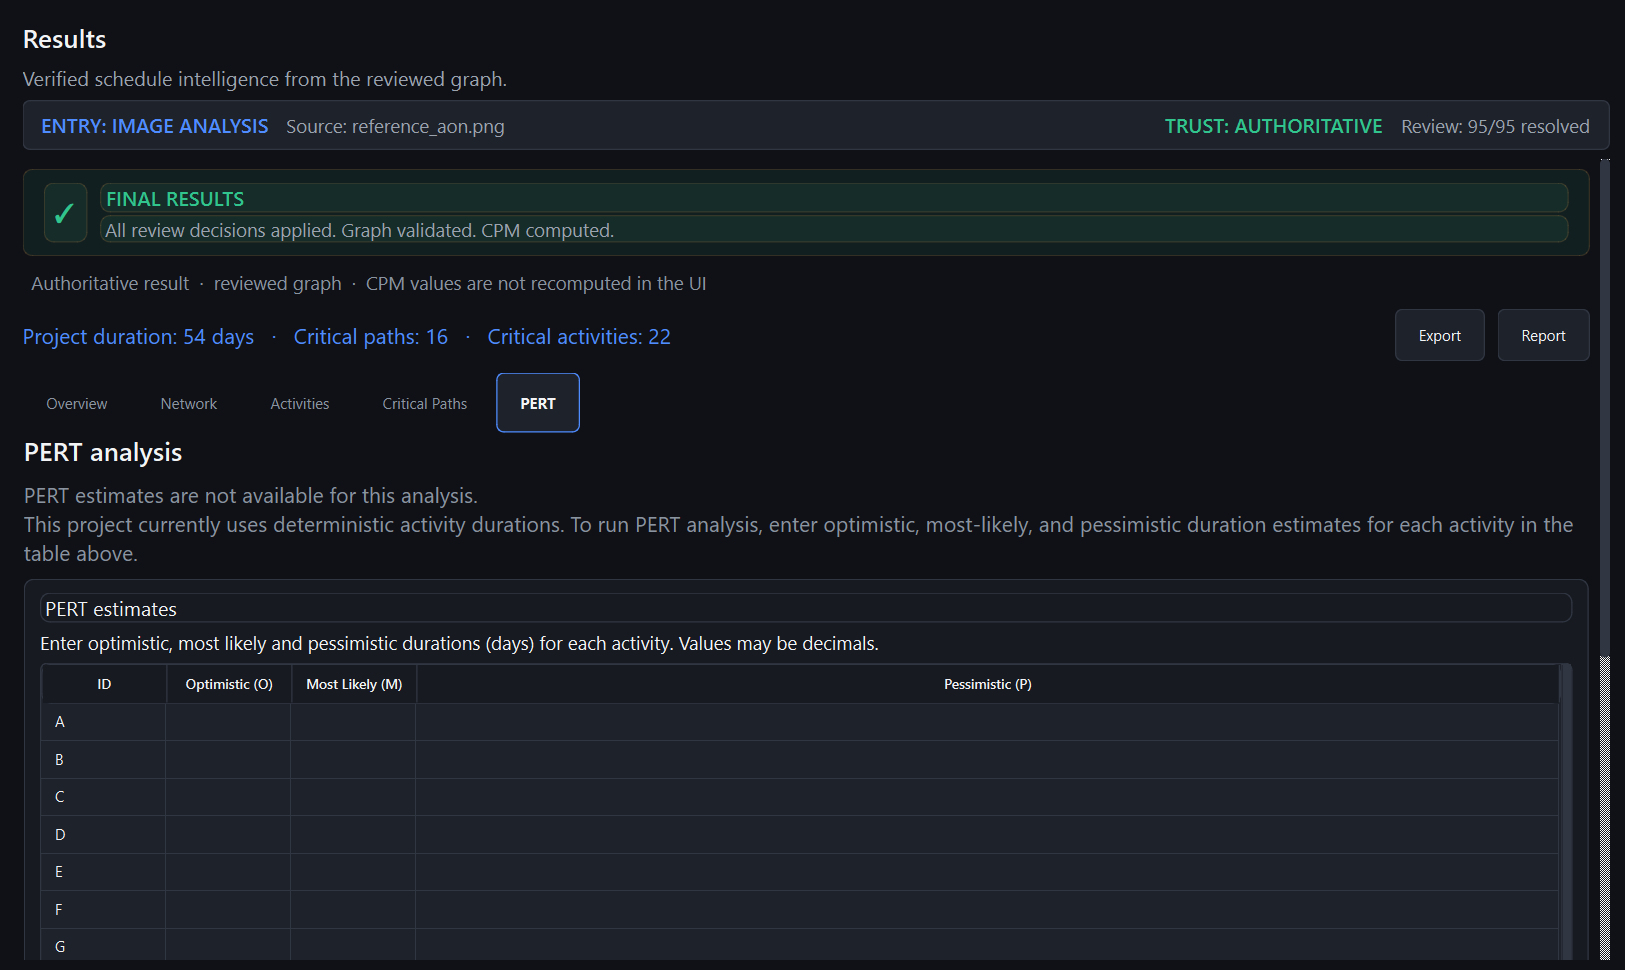
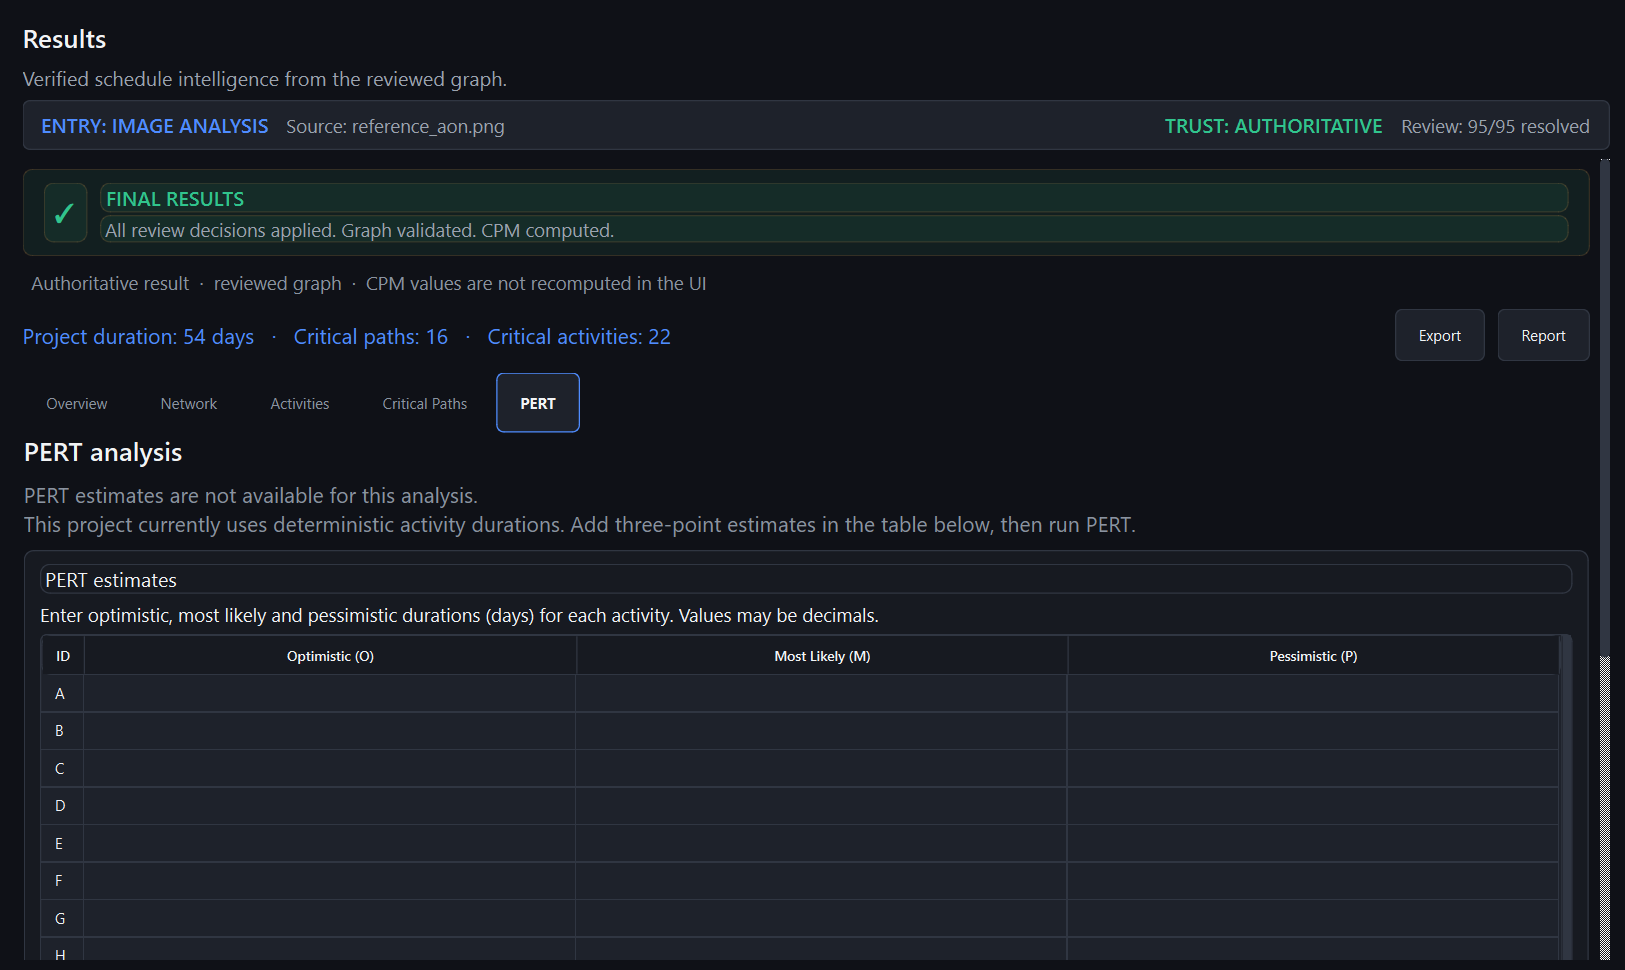
batch 8: PERT tab — balanced columns + correct-ready status copy
- estimates table: compact auto-sized ID + equal-stretch O/M/P columns
  (Interactive + stretched-last had left O/M at their default ~120px
  while P swallowed the remaining ~1100px)
- results table: same treatment (fixed 52px ID, remaining columns share
  the width equally); dropped the per-row resizeSection(0, 48) hack
- NO_PERT_DATA hint: 'in the table above' -> 'in the table below' (the
  banner sits above the table) and trimmed to a single pointer line —
  the detailed 'enter optimistic, most-likely and pessimistic...'
  instruction was verbatim-duplicated by the hint inside the panel
- regenerate 10 capture; restore drift in 02

diff --git a/pert_analyzer/gui/results/pert.py b/pert_analyzer/gui/results/pert.py
@@ -147,8 +147,15 @@ class PertTab(QWidget):
         )
         self._estimates_table.verticalHeader().setVisible(False)
         header = self._estimates_table.horizontalHeader()
+        # Balanced entry grid: compact auto-sized ID plus three equal O/M/P
+        # columns sharing the width.  The previous Interactive +
+        # stretched-last-section setup squeezed O/M to their defaults while
+        # P swallowed the remaining ~1100px.
         header.setSectionResizeMode(QHeaderView.ResizeMode.Interactive)
-        header.setStretchLastSection(True)
+        header.setSectionResizeMode(0, QHeaderView.ResizeMode.ResizeToContents)
+        for col in (1, 2, 3):
+            header.setSectionResizeMode(col, QHeaderView.ResizeMode.Stretch)
+        header.setStretchLastSection(False)
         self._estimates_table.setStyleSheet(
             f"QTableWidget {{ background-color: {SURFACE_LIGHT};"
             f" border: 1px solid {BORDER}; border-radius: 6px;}}"
@@ -220,8 +227,14 @@ class PertTab(QWidget):
         self._results_table.verticalHeader().setVisible(False)
         self._results_table.setSortingEnabled(True)
         rheader = self._results_table.horizontalHeader()
+        # Same balanced treatment as the estimates table: fixed ID, the
+        # remaining result columns share the width equally.
         rheader.setSectionResizeMode(QHeaderView.ResizeMode.Interactive)
-        rheader.setStretchLastSection(True)
+        rheader.setSectionResizeMode(0, QHeaderView.ResizeMode.Fixed)
+        rheader.resizeSection(0, 52)
+        for col in range(1, len(RESULT_COLUMNS)):
+            rheader.setSectionResizeMode(col, QHeaderView.ResizeMode.Stretch)
+        rheader.setStretchLastSection(False)
         self._results_table.setStyleSheet(
             f"QTableWidget {{ background-color: {SURFACE_LIGHT};"
             f" border: 1px solid {BORDER}; border-radius: 6px;}}"
@@ -442,7 +455,6 @@ class PertTab(QWidget):
         for col, (text, value) in enumerate(values):
             item = _numeric_item(text, value)
             self._results_table.setItem(row, col, item)
-        self._results_table.horizontalHeader().resizeSection(0, 48)
 
     def _clear_results(self) -> None:
         for card in self._kpi_cards.values():

diff --git a/pert_analyzer/gui/results/data.py b/pert_analyzer/gui/results/data.py
@@ -293,8 +293,7 @@ def _int_or_none(value: Any) -> Optional[int]:
 PERT_NO_DATA_TITLE = "PERT estimates are not available for this analysis."
 PERT_NO_DATA_HINT = (
     "This project currently uses deterministic activity durations. "
-    "To run PERT analysis, enter optimistic, most-likely, and pessimistic "
-    "duration estimates for each activity in the table above."
+    "Add three-point estimates in the table below, then run PERT."
 )
 
 
